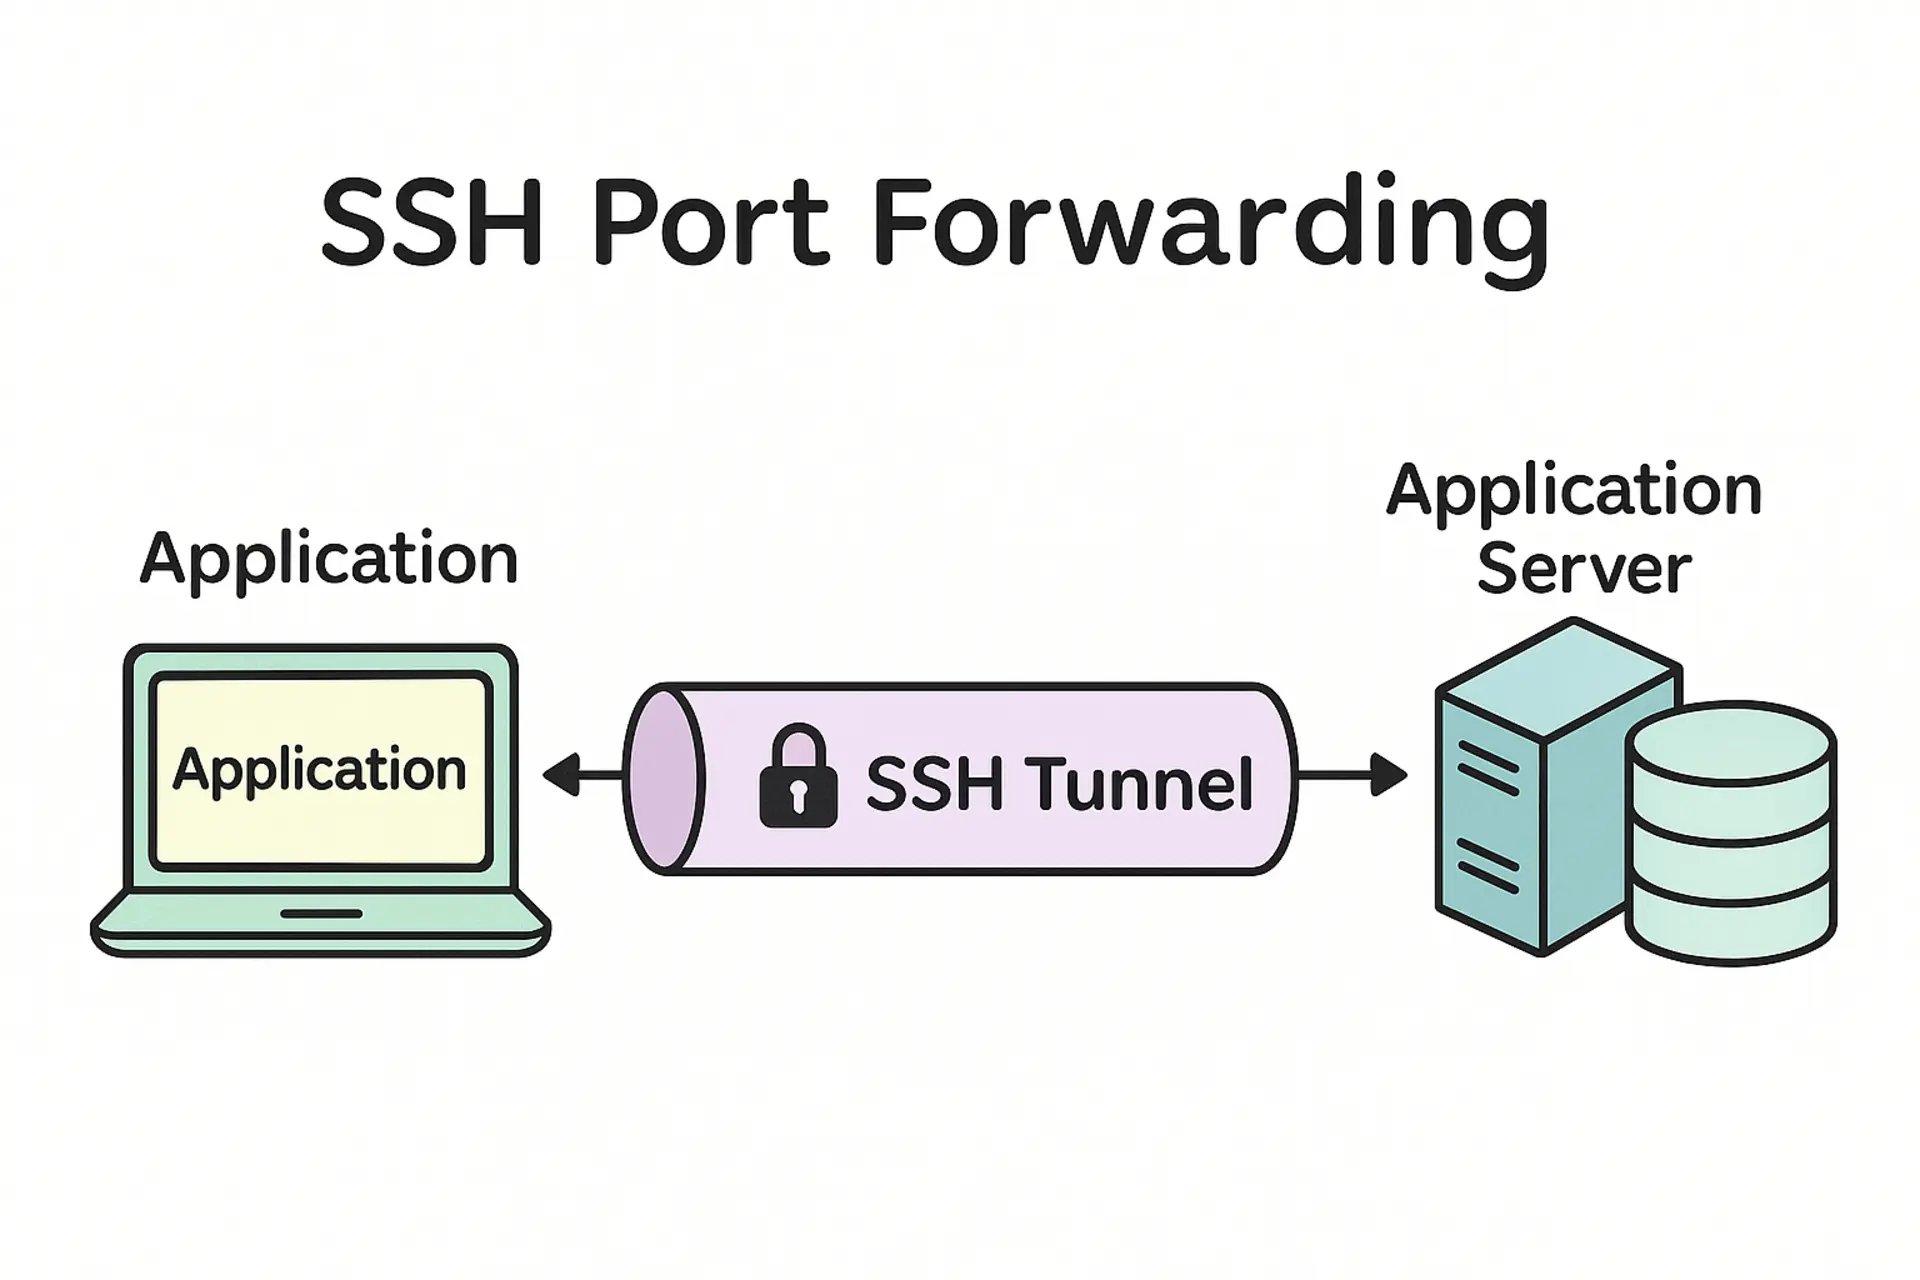
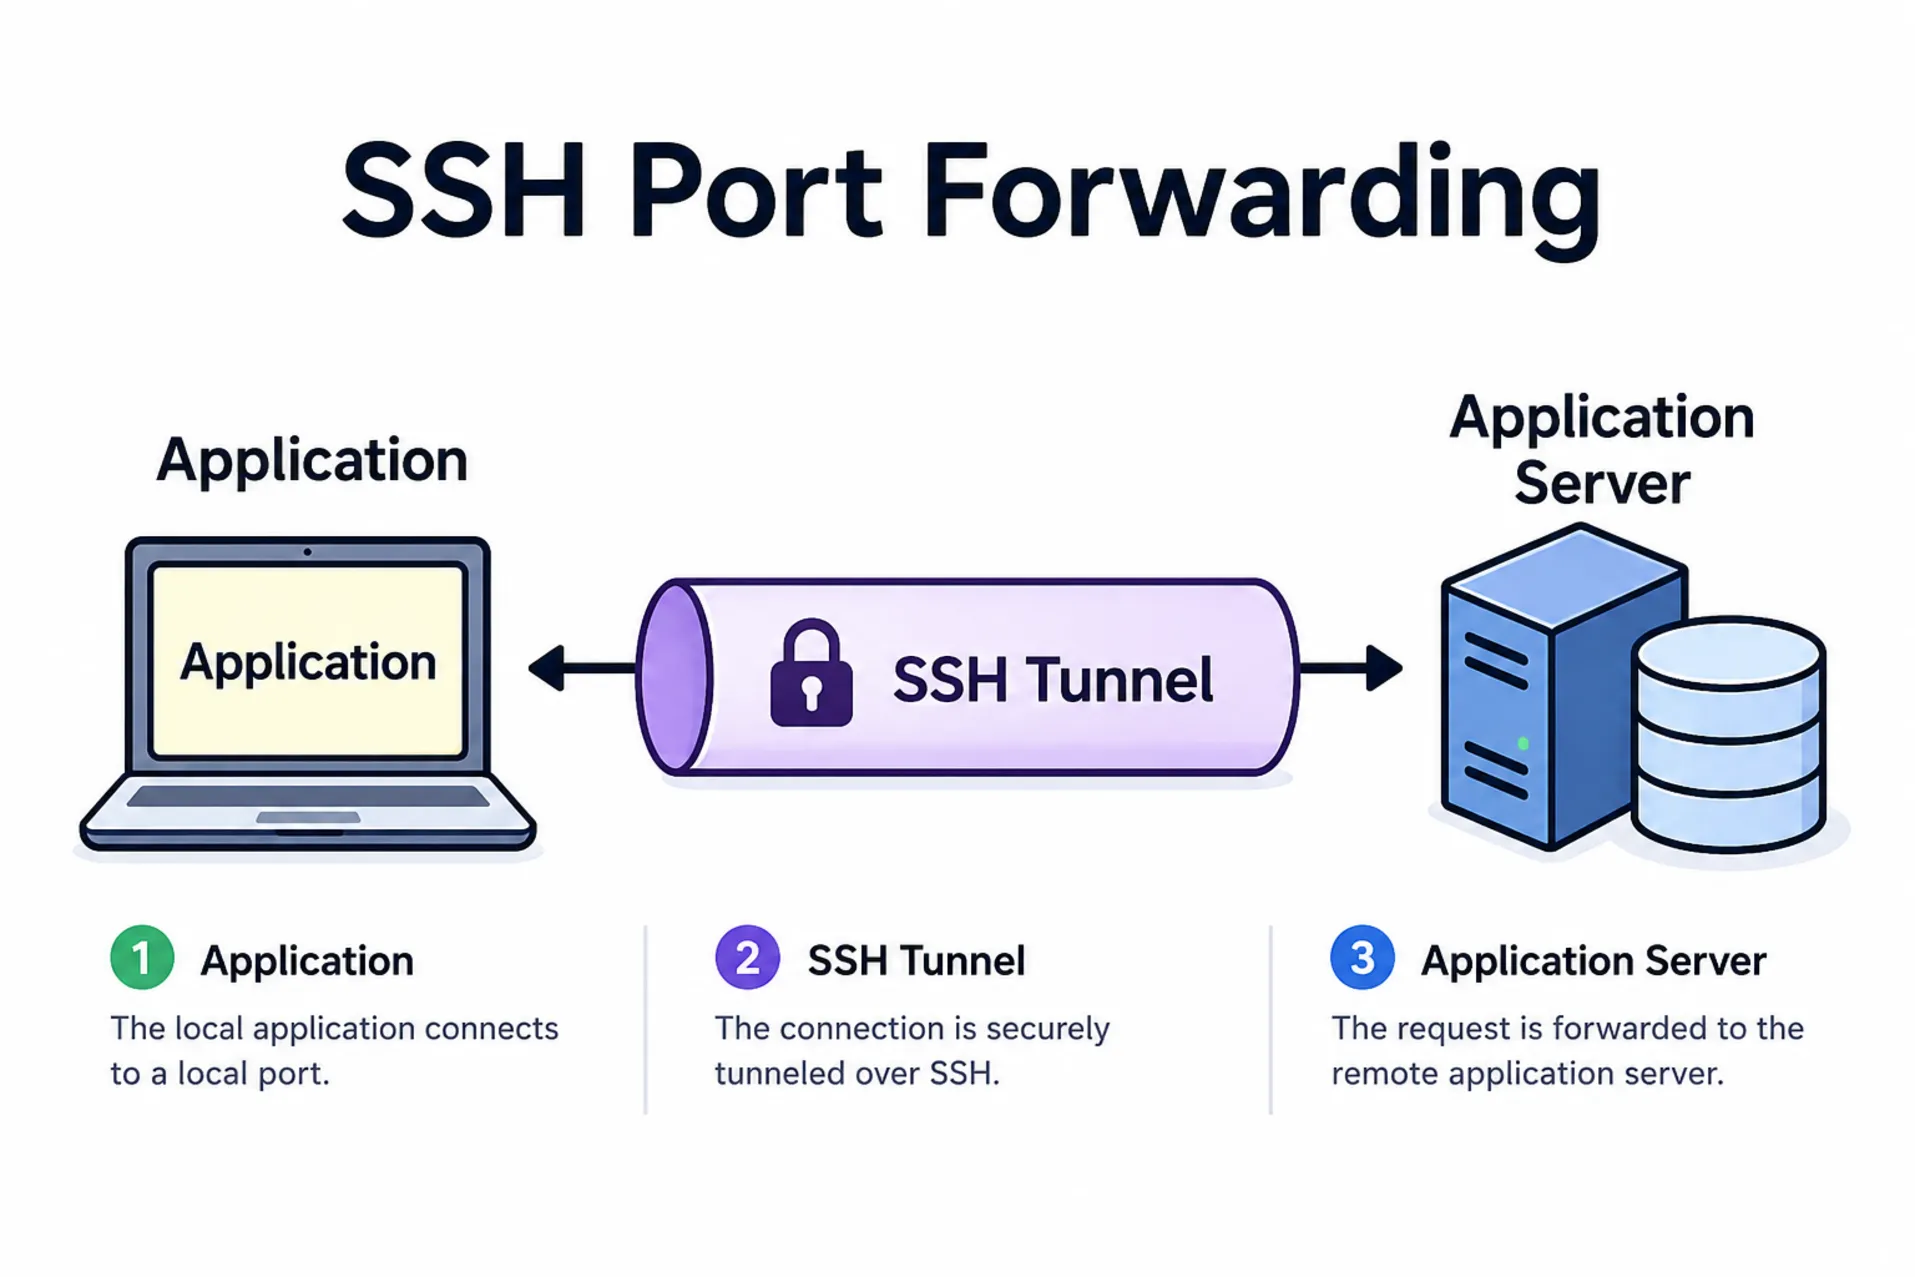
Merge pull request #784 from Pinggy-io/moksh/blog
Moksh/blog

Pull request: Moksh/blog

Changed region(s): [[0.0308, 0.3054, 0.9551, 0.8551], [0.154, 0.0916, 0.8627, 0.2443]]

diff --git a/content/blog/tools_to_reduce_ai_coding_agent_token_usage.md b/content/blog/tools_to_reduce_ai_coding_agent_token_usage.md
@@ -1,0 +1,199 @@
+---
+title: "7 Open Source Tools to Slash AI Coding Agent Token Usage in 2026"
+description: "AI coding agents burn tokens fast. Here are the best open source tools - Graphify, Caveman, RAG pipelines, Continue.dev, and more - to cut context costs without losing quality."
+date: 2026-06-11T14:15:25+05:30
+draft: false
+tags: ["AI coding agents", "token optimization", "Graphify", "Caveman", "RAG", "Claude Code", "LLM cost reduction", "open source AI"]
+categories: ["AI Tools", "Development", "Cost Optimization"]
+og_image: "images/tools_to_reduce_ai_coding_agent_token_usage/tools_to_reduce_ai_coding_agent_token_usage_banner.webp"
[1 lines of base64/hex data omitted]
+outputs:
+  - HTML
+  - AMP
+---
+
+{{< image "tools_to_reduce_ai_coding_agent_token_usage/tools_to_reduce_ai_coding_agent_token_usage_banner.webp" "7 Open Source Tools to Slash AI Coding Agent Token Usage in 2026" >}}
+
+Every AI coding agent session that feels "reasonable" is quietly burning through your token budget. What looks like a single task - "refactor this authentication module" - might involve 20 tool calls, each one re-sending the full conversation history plus whatever file contents got loaded along the way. An agentic loop that costs you 50,000 tokens in the first message routinely compounds to 500,000 tokens by the time it wraps up.
+
+The problem is structural. LLMs process context stateless: every step gets the entire preceding transcript appended to the prompt again. Add tool descriptions (each one taking 200-500 tokens), full file reads, and verbose model responses, and a mid-size task on a large codebase can easily hit the cost of dozens of individual chat messages. For developers running agents regularly, this adds up to a real dollar amount every week.
+
+The good news is that the tooling to address this has matured significantly. The approaches range from graph-based codebase indexing that replaces file dumps with targeted queries, to output compression skills that shorten what the model writes back, to prompt caching that makes repeated system prompts essentially free. Most of these are open source. You do not need to pick just one.
+
+{{% tldr %}}
+
+**The token cost problem in one line:** AI coding agents re-send the full conversation history on every step, compounding costs quickly. The tools below address this from different angles.
+
+**Graph-based codebase understanding:**
+- <a href="https://github.com/safishamsi/graphify" target="_blank">Graphify</a> - Converts your codebase into a queryable knowledge graph so agents retrieve targeted context instead of reading entire files
+
+**Output compression skills:**
+- <a href="https://github.com/JuliusBrussee/caveman" target="_blank">Caveman</a> - Claude Code skill that rewrites verbose agent responses into terse output; reported 65% average output token reduction
+
+**RAG-based context retrieval:**
+- <a href="https://continue.dev" target="_blank">Continue.dev</a> - Open-source coding assistant with `@codebase` embedding-based retrieval to pull only relevant context
+- <a href="https://anythingllm.com" target="_blank">AnythingLLM</a> - Local RAG platform for indexing and querying codebases and documentation
+
+**Context management and architecture summaries:**
+- `/compact` in Claude Code - Built-in context compaction that summarizes conversation history in place
+- <a href="https://tokalator.wiki/" target="_blank">Tokalator</a> - VS Code extension with slash commands for context budgeting and compaction
+
+**API-level optimization:**
+- Prompt caching (`cache_control` breakpoints) - 90% discount on cached input tokens; single largest cost lever for repeated system prompts
+- Claude API context compaction (`compact-2026-01-12` header) - Condenses conversation history server-side; in one reported case, 132,000 tokens collapsed to 2,000
+
+**Model routing:**
+- <a href="https://github.com/BerriAI/litellm" target="_blank">LiteLLM</a> - Open-source model gateway for routing simple agent subtasks to cheaper models automatically
+
+{{% /tldr %}}
+
+## Why AI Coding Agents Burn So Many Tokens
+
+Before getting into the tools, it is worth understanding where the tokens actually go, because the distribution is non-obvious.
+
+In a typical Claude Code or Cline session, conversation history re-sending accounts for roughly 50-60% of total token spend. The model does not maintain state between tool calls - it receives the full transcript each time. A task with 20 tool calls therefore sends the first message 20 times (plus everything that came after it). This compounds quadratically: the longer the session runs, the more each subsequent step costs.
+
+Tool descriptions come next. Every tool available to the agent gets described in the system prompt: name, parameters, descriptions. For a well-equipped agent with 30+ tools, this alone can add 10,000-15,000 tokens to every single request. File reads are the third major contributor - when an agent gropes around a codebase without a good retrieval strategy, it ends up reading entire files (or many of them) to find the few relevant lines.
+
+Finally, verbose model output feeds right back into future context. If the model writes 2,000 tokens explaining something when 200 would do, those extra 1,800 tokens get included in every subsequent step for the rest of the session.
+
+## Graphify: Graph-Based Codebase Understanding
+
+{{< image "tools_to_reduce_ai_coding_agent_token_usage/graphify.webp" "Graphify knowledge graph tool for AI coding agents" >}}
+
+The most expensive thing a coding agent commonly does is explore a codebase it has not seen before. Without structure, it reads file after file to build a mental model of the project. {{< link href="https://github.com/safishamsi/graphify" >}}Graphify{{< /link >}} attacks this directly by pre-computing that structure into a queryable knowledge graph.
+
+Graphify (from Graphify Labs, Y Combinator S26) uses tree-sitter AST extraction to parse your codebase across 28 programming languages and build a graph of how code entities relate to each other: functions calling functions, modules importing modules, types referiting types. The result is stored as interactive HTML, a Markdown report, and a JSON graph that any AI assistant can query.
+
+The core idea is that instead of asking "read `src/auth/session.py`", an agent can ask "what does `authenticate_user` depend on?" and get back a precise, minimal answer. Targeted graph queries replace broad file reads. Graphify also identifies "god nodes" - the most-connected entities in the codebase - which tend to be exactly the pieces an agent needs to understand first when tackling a task. It also supports PR impact analysis, showing which parts of the graph a proposed change touches.
+
+Graphify integrates with Claude Code, Cursor, Gemini CLI, GitHub Copilot CLI, and a number of other AI assistants. For large repos where agents spend significant time in exploratory tool calls, it can cut that exploration cost substantially.
+
+```bash
+# Install Graphify
+pip install graphify
+
+# Build the knowledge graph for your project
+graphify build .
+
+# Query the graph from any supported agent
+graphify query "what calls authenticate_user?"
+```
+
+The tradeoff is that graph generation takes time and needs to be kept current as the codebase evolves. For active repos, you would add `graphify build` to your CI pipeline or run it before starting a significant agent session. The graph itself is a one-time build cost that pays back quickly.
+
+## Caveman: Skills That Shorten Output
+
+{{< image "tools_to_reduce_ai_coding_agent_token_usage/caveman.webp" "Caveman Claude Code skill for output token compression" >}}
+
+Graphify addresses what goes into the context. {{< link href="https://github.com/JuliusBrussee/caveman" >}}Caveman{{< /link >}} addresses what comes out of it. It is a Claude Code skill that instructs the model to rewrite its responses in terse, information-dense language - technically accurate, stripped of everything else.
+
+The efficiency gains are lopsided in a helpful direction. In the project's own benchmarks across a sample of prompts, Caveman reports an average 65% reduction in output token count, with some responses dropping by over 80%. A detailed explanation of React re-renders that would normally run to 1,180 tokens comes back as 159 tokens instead. Memory file compression using `/caveman-compress` has shown around 46% reduction on stored context files.
+
+Caveman comes with multiple compression levels - `lite` for light trimming, `full` as the default, and `ultra` for maximum density. There is also a `wenyan` mode that rewrites output in classical Chinese. Whether that last one is useful in practice depends on your team, but it is a good illustration of how far the compression idea can be taken.
+
+The commands are straightforward. `/caveman-commit` writes minimal commit messages. `/caveman-review` gives one-line PR feedback. `/caveman-compress` rewrites a memory file or CLAUDE.md section into a smaller form. The skill also ships as an MCP middleware wrapper that can compress tool descriptions before they reach the model.
+
+One important limitation: Caveman only reduces output tokens, not input tokens. It does not affect what the agent reads - only what it writes back. For workloads where input tokens dominate (large file reads, long conversation histories), Caveman alone will not solve the problem. It works best combined with the input-side tools covered in the next sections.
+
+## RAG-Based Context Retrieval
+
+Retrieval-augmented generation has been a staple of chatbot architectures for a while, but applying it specifically to codebase context for coding agents is where you get the most leverage. The idea is simple: instead of loading an entire file because it might be relevant, embed the contents of your codebase into a vector index and retrieve only the chunks that actually match the current task.
+
+{{< image "tools_to_reduce_ai_coding_agent_token_usage/continue.webp" "Continue.dev open-source RAG-based coding assistant" >}}
+
+{{< link href="https://continue.dev" >}}Continue.dev{{< /link >}} is the most established open-source tool for this use case. Its `@codebase` context provider uses local embeddings to index your repository and retrieve semantically relevant code snippets on demand. When an agent is working on a feature, it can ask for relevant context and get back the specific functions, classes, and comments that are actually related - not the entire file they live in. Continue.dev supports local embedding models (via Ollama) so the index can be built and queried without sending code to an external service. For teams with privacy concerns or air-gapped environments, this matters.
+
+{{< image "tools_to_reduce_ai_coding_agent_token_usage/anythingllm.webp" "AnythingLLM local RAG platform for codebase context" >}}
+
+{{< link href="https://anythingllm.com" >}}AnythingLLM{{< /link >}} takes a broader approach: it is a full local RAG platform that supports ingesting code, documentation, and any other text-based source into workspace-specific vector databases. Agents connecting via its API can query across multiple knowledge bases simultaneously. It supports 30+ LLM providers and works with Ollama for fully local operation. The workspace model is useful when you want to separate context for different projects or different phases of work (one workspace for the codebase, another for the API documentation).
+
+The efficiency numbers from RAG-based retrieval on large repos are significant. Semantic retrieval can reduce per-query context by 60-80% compared to naive file loading, depending on how well-tuned the embedding model and chunk size are. The main cost is the upfront indexing time and the minor latency added per retrieval call.
+
+For more advanced use cases, the **GraphCodeAgent** architecture (from a 2025 research paper at arxiv.org/abs/[phone redacted]) combines both a call graph and a data flow graph with retrieval augmentation, letting the agent reason about code relationships alongside text similarity. It is more complex to set up but demonstrates the ceiling of what is possible when graph structure and RAG are combined.
+
+## Context Management and Architecture Summaries
+
+Even with good retrieval, long agent sessions accumulate context. The transcript from the first hour of work does not disappear - it gets included in every subsequent request. Most of the useful information from that first hour can be compressed into a much smaller summary without losing any of the actionable content.
+
+**Claude Code's `/compact` command** does this natively. Running `/compact` at a natural checkpoint - after a feature is done, before switching to a different subsystem - triggers in-place compression of the conversation history. The detailed back-and-forth gets replaced by a summary that preserves the key decisions and current state. This is the cheapest thing most developers can do, because it requires no external tooling and works immediately. Using `/clear` between unrelated tasks has a similar effect: starting fresh eliminates accumulated noise entirely.
+
+**CLAUDE.md and system prompt hygiene** is a related lever. Every byte in your project-level CLAUDE.md file gets included in every request. A well-structured CLAUDE.md with focused, minimal guidance does less damage than one that has grown organically to include every edge case and convention ever discussed. Keeping these files under 5,000 tokens is a practical target; anything beyond that should probably be in a referenced document rather than inlined.
+
+{{< link href="https://tokalator.wiki/" >}}Tokalator{{< /link >}} is a VS Code extension and context engineering toolkit (introduced in a 2025 research paper on context engineering for coding assistants) that approaches this more systematically. It provides 11 slash commands for managing token budgets: explicit budget caps, context prioritization, compaction triggers, and usage monitoring visible in real time inside the editor. If you are building agent workflows where token budget management needs to be explicit and observable, Tokalator adds that layer without requiring changes to the model calls themselves.
+
+## Prompt Caching: The Highest-Leverage API Feature
+
+If you are running agents against the Anthropic API directly, prompt caching is the single most impactful cost reduction available. The mechanism is simple: add `cache_control` breakpoints to the static portions of your prompt - the system message, tool descriptions, any fixed context. After the first request, those sections are cached server-side and subsequent requests that include the same content are charged at 10% of the normal input token rate.
+
+For agent loops where the system prompt is 10,000 tokens and runs 50 iterations, that is a 90% discount on 450,000 of the 500,000 input tokens. Cache hits have a 5-minute TTL by default (up to 1 hour with extended caching). In practice, once a session is warm, cache hit rates above 70% are easy to sustain.
+
+```python
+# Adding cache_control breakpoints in the Anthropic Python SDK
+message = client.messages.create(
+    model="claude-sonnet-4-6",
+    system=[
+        {
+            "type": "text",
+            "text": system_prompt,
+            "cache_control": {"type": "ephemeral"}  # cache this section
+        }
+    ],
+    messages=messages
+)
+```
+
+The Claude API also offers context compaction as a beta feature (header: `compact-2026-01-12`), which condenses conversation history server-side before it reaches the model. In Anthropic's documentation, one example shows a 132,000-token conversation compressed to approximately 2,000 tokens. This is different from `/compact` in Claude Code (which is client-side) - the API version runs on Anthropic's infrastructure and can be triggered programmatically within long-running agent loops.
+
+## Model Routing: Right-Size Each Subtask
+
+{{< image "tools_to_reduce_ai_coding_agent_token_usage/litellm.webp" "LiteLLM open-source model routing gateway" >}}
+
+Not every step in an agent loop needs the same model. A subtask that says "check if this file exists" does not need the same capacity as one that says "architect the refactored version of this authentication system." Routing different subtasks to models of different capability and cost is one of the cleanest ways to reduce total spend without changing what the agent can do.
+
+{{< link href="https://github.com/BerriAI/litellm" >}}LiteLLM{{< /link >}} is the most widely-used open source tool for this. It provides a unified API layer that sits in front of multiple LLM providers and can route requests based on rules you define: send requests with simple tool calls to Haiku 4.5, send anything requiring multi-step reasoning to Sonnet 4.6, reserve Opus for tasks explicitly flagged as complex. LiteLLM also handles fallbacks, load balancing, and cost tracking across providers.
+
+The cost differential between models is large enough to make routing meaningful. Haiku 4.5 costs roughly 30x less per token than Opus 4.6. A workflow where 70% of tool calls are routed to Haiku and 20% to Sonnet can bring overall costs down to 25-30% of what an all-Opus workflow would cost, with most users reporting no noticeable quality difference on the tasks that actually get routed to smaller models.
+
+For teams using multiple providers, {{< link href="https://openrouter.ai" >}}OpenRouter{{< /link >}} provides similar routing capabilities plus access to open-weight models like Qwen 3.6 and DeepSeek V3.2 that can be even cheaper for the right tasks.
+
+## Semantic Tool Selection: Filtering Before the Model Sees It
+
+Most coding agents expose every available tool in every request. If your agent has 30 tools, all 30 get described in the prompt regardless of what the current task actually needs. A travel-booking agent test documented in an AWS developer post illustrated the scale of this problem: 29 tools required 1,557 tokens to describe; filtering down to only relevant tools reduced that to 275 tokens, an 82% reduction - and also cut tool selection errors by 89%.
+
+The implementation is a FAISS vector index over your tool descriptions, using a small embedding model (SentenceTransformers works fine) to retrieve only the semantically relevant subset for each incoming query. The code is roughly 20 lines of Python and the latency overhead per request is sub-millisecond. For agents with large tool registries, this is worth adding early.
+
+```python
+import faiss
+from sentence_transformers import SentenceTransformer
+
+model = SentenceTransformer("all-MiniLM-L6-v2")
+tool_embeddings = model.encode([t["description"] for t in all_tools])
+index = faiss.IndexFlatL2(tool_embeddings.shape[1])
+index.add(tool_embeddings)
+
+def get_relevant_tools(query: str, k: int = 5):
+    query_embedding = model.encode([query])
+    _, indices = index.search(query_embedding, k)
+    return [all_tools[i] for i in indices[0]]
+```
+
+This pairs well with Graphify's approach: Graphify reduces the tokens needed to describe the codebase, semantic tool selection reduces the tokens needed to describe the agent's capabilities. Both address the "input before the model does any work" category.
+
+## How to Stack These
+
+Running all of these simultaneously is possible, but starting with the highest-leverage options makes sense.
+
+For most developers using Claude Code or a similar agent daily, the immediate wins are `/compact` and `/clear` discipline (free, no setup), keeping CLAUDE.md files trim (free, no setup), and prompt caching on any system prompts you control (90% discount with a few lines of code). These three together can reduce a typical agent bill by 40-60% without touching any external tooling.
+
+The next tier adds Graphify if you work with large or unfamiliar codebases (graph-based retrieval replaces exploratory file reads), Caveman if your agent outputs tend to be verbose (compresses what feeds back into future context), and Continue.dev's RAG if you need fine-grained retrieval over your specific codebase.
+
+Model routing via LiteLLM and semantic tool selection are most impactful for production pipelines where agent loops run hundreds or thousands of times - the setup cost is higher but the per-request savings compound. For personal development workflows, the first tier is usually enough.
+
+The tools are not mutually exclusive. Graphify and RAG complement each other: Graphify handles structural navigation (what calls what), RAG handles semantic retrieval (what is similar to this). Caveman compresses what gets appended to the next step's context, which is useful regardless of how you handled the input side. Prompt caching applies automatically once you add the `cache_control` header - it does not conflict with anything else.
+
+## Conclusion
+
+Most of the token spend in an AI coding agent session comes from three things: re-sent conversation history, broad file reads, and verbose output feeding back into future steps. The tools here address each category - Graphify and RAG on the input side, Caveman on output, `/compact` and prompt caching on conversation state. All of them are open source and stackable. Start with the ones that match where your costs are actually going.
+
+For a deeper look at the models powering these agents, see our guide on {{< link href="/blog/best_open_source_self_hosted_llms_for_coding/" >}}best open source self-hosted LLMs for coding{{< /link >}}.

diff --git a/content/blog/ssh_port_forwarding.md b/content/blog/ssh_port_forwarding.md
@@ -2,6 +2,7 @@
 title: "SSH Port Forwarding"
 description: "Master SSH port forwarding with practical examples for local, remote, and dynamic tunneling. Learn how to securely access databases, bypass firewalls, and debug applications."
 date: 2025-10-24T14:15:25+05:30
+lastmod: 2026-06-12T14:15:25+05:30
 draft: false
 og_image: "images/ssh_port_forwarding/ssh-port-forwarding.webp"
 tags: ["guide", "SSH", "networking", "security", "development"]
@@ -13,7 +14,7 @@ outputs:
 
 {{< image "ssh_port_forwarding/ssh-port-forwarding.webp" "SSH Port Forwarding Banner" >}}
 
-SSH port forwarding is one of those tools that seems intimidating at first but becomes absolutely essential once you understand it. Whether you're trying to access a database on a remote server, bypass restrictive firewalls, or securely tunnel traffic through an encrypted connection, SSH port forwarding has got you covered. Think of it as creating secure pathways through the internet that let you access services as if they were running locally on your machine.
+SSH port forwarding tunnels TCP traffic through an SSH connection to reach services that aren't directly accessible from your machine - a database behind a firewall, a dev service on a private network, or a local app you need to expose to the internet. It's built into OpenSSH, works over the same connection as a normal SSH session, and encrypts everything in transit.
 
 {{% tldr %}}
 
@@ -41,9 +42,7 @@ SSH port forwarding is one of those tools that seems intimidating at first but b
 
 ## What is SSH Port Forwarding?
 
-SSH port forwarding, also known as SSH tunneling, creates secure encrypted channels between your local machine and remote servers. Instead of connecting directly to a service, you route the connection through an SSH tunnel, which encrypts all the traffic and can bypass network restrictions.
-
-The beauty of SSH port forwarding lies in its simplicity and versatility. You're essentially borrowing the SSH connection to carry other types of traffic, all while maintaining the security and encryption that SSH provides. This makes it perfect for accessing services that might be blocked, restricted, or simply need an extra layer of security.
+SSH port forwarding, also known as SSH tunneling, routes a TCP connection through an SSH session rather than directly to the destination. The SSH session carries your other traffic, encrypting it end-to-end and letting you reach services gated by network policy - without needing a VPN or a separate client.
 
 ## The Three Types of SSH Port Forwarding
 
@@ -59,12 +58,12 @@ ssh -L 8080:localhost:80 user@server
 ```
 
 **Long form:**
+{{< image "ssh_port_forwarding/local_port_forwarding.webp" "Local Port Forwarding Example" >}}
 ```bash
 ssh -L localhost:8080:localhost:80 user@server
 ```
 
 
-{{< image "ssh_port_forwarding/local_port_forwarding.webp" "Local Port Forwarding Example" >}}
 
 Here's a practical example. Let's say you're working from a coffee shop and need to access your company's database server that's only accessible from within the office network. You can create a tunnel through your office SSH server:
 
@@ -76,21 +75,21 @@ Now you can connect to `localhost:5432` on your laptop, and it'll be as if you'r
 
 ### Remote Port Forwarding
 
-Remote port forwarding works in the opposite direction. It forwards a port on the remote server back to your local machine. This is super handy when you're developing something locally and need to share it with someone else, or when you need to expose a local service to a remote network. For a deeper dive into remote tunneling, check out our {{< link href="https://pinggy.io/blog/ssh_reverse_tunnelling/" >}}SSH reverse tunneling guide{{< /link >}}.
+Remote port forwarding works in the opposite direction: it forwards a port on the remote server back to your local machine. Useful when you need to expose a local service to a remote network - sharing a dev build, receiving webhooks, or testing integrations without deploying. For a deeper dive into remote tunneling, check out our {{< link href="https://pinggy.io/blog/ssh_reverse_tunnelling/" >}}SSH reverse tunneling guide{{< /link >}}.
 
+{{< image "ssh_port_forwarding/remote_port_forwarding.webp" "Remote Port Forwarding Example" >}}
 ```bash
 ssh -R 0.0.0.0:8080:localhost:80 user@gateway
 ```
 
-{{< image "ssh_port_forwarding/remote_port_forwarding.webp" "Remote Port Forwarding Example" >}}
 
-Imagine you're building a webhook handler for a payment processor, but you're developing it locally. The payment service needs to send webhooks to your application, but it can't reach your laptop directly. Remote port forwarding to the rescue:
+Imagine you're building a webhook handler for a payment processor locally. The payment service needs to send webhooks to your application, but it can't reach your laptop directly:
 
 ```bash
-ssh -R 0.0.0.0:8080:locahost:80 [email redacted]
+ssh -R 0.0.0.0:8080:localhost:80 [email redacted]
 ```
 
-Now when the payment service sends a webhook to `my-public-server.com:8080`, it gets forwarded to your local development server running on port 80. You can test webhooks in real-time without deploying anything.
+Now when the payment service sends a webhook to `my-public-server.com:8080`, it gets forwarded to your local development server on port 80. Test webhooks in real-time without deploying anything.
 
 ### Dynamic Port Forwarding (SOCKS Proxy)
 
@@ -164,9 +163,9 @@ autossh -M 0 -f -N -L 5432:db:5432 [email redacted]
 
 The `-M 0` disables autossh's built-in monitoring and relies on SSH's built-in keep-alive mechanisms instead.
 
-## SSH Config File Magic
+## Persistent Tunnels with `~/.ssh/config`
 
-Instead of remembering complex command-line options, you can set up SSH port forwarding rules in your `~/.ssh/config` file:
+Rather than typing out flags every time, you can define forwarding rules in `~/.ssh/config`:
 
 ```bash
 Host dev-tunnel
@@ -199,7 +198,7 @@ ssh -g -L 5432:db:5432 [email redacted]
 
 This binds the forwarded port to all interfaces, making it accessible from other machines on your network. Only do this if you trust your local network and understand the security implications.
 
-Always use SSH key authentication instead of passwords when possible, especially for automated or long running tunnels. And remember that SSH port forwarding inherits the security of your SSH connection, so keep your SSH client and server software updated.
+Always use SSH key authentication instead of passwords when possible, especially for automated or long-running tunnels. SSH port forwarding inherits the security of your SSH connection, so keep your SSH client and server software updated.
 
 ## Pinggy: quick tunnels when SSH port forwarding isn't an option
 
@@ -217,8 +216,6 @@ This gives you a public URL that forwards to your local port. For stable URLs an
 
 ## Conclusion
 
-SSH port forwarding is one of those fundamental tools that every developer should have in their toolkit. It's simple enough to use for quick debugging sessions but powerful enough to solve complex networking challenges. Whether you're accessing databases through bastion hosts, testing webhooks locally, or connecting securely across networks, SSH port forwarding provides a secure and reliable solution.
+SSH port forwarding is built into OpenSSH, so it's available on virtually every Unix-like system with no extra installs. The three types - local, remote, and dynamic - cover most networking situations you'll hit as a developer: accessing services through bastion hosts, testing webhooks locally, proxying traffic through a remote network.
 
-The best part is that it's built into SSH, which means it's available on virtually every Unix-like system without installing additional software. Once you get comfortable with the basic patterns, you'll find yourself reaching for SSH port forwarding whenever you need to securely connect services across networks.
-
-Start with simple local port forwarding for database access, then gradually explore remote and dynamic forwarding as your needs become more complex. Before you know it, you'll be tunneling like a pro and wondering how you ever managed without it.
+Start with local forwarding for database access, then pick up remote and dynamic forwarding as your needs expand.